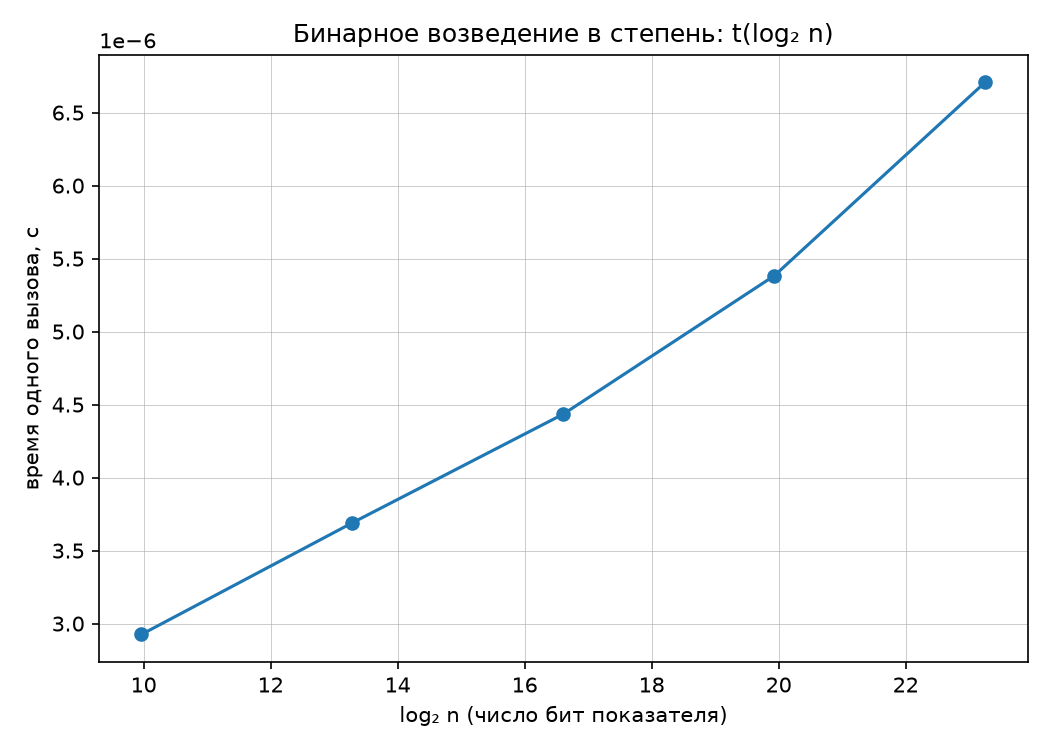
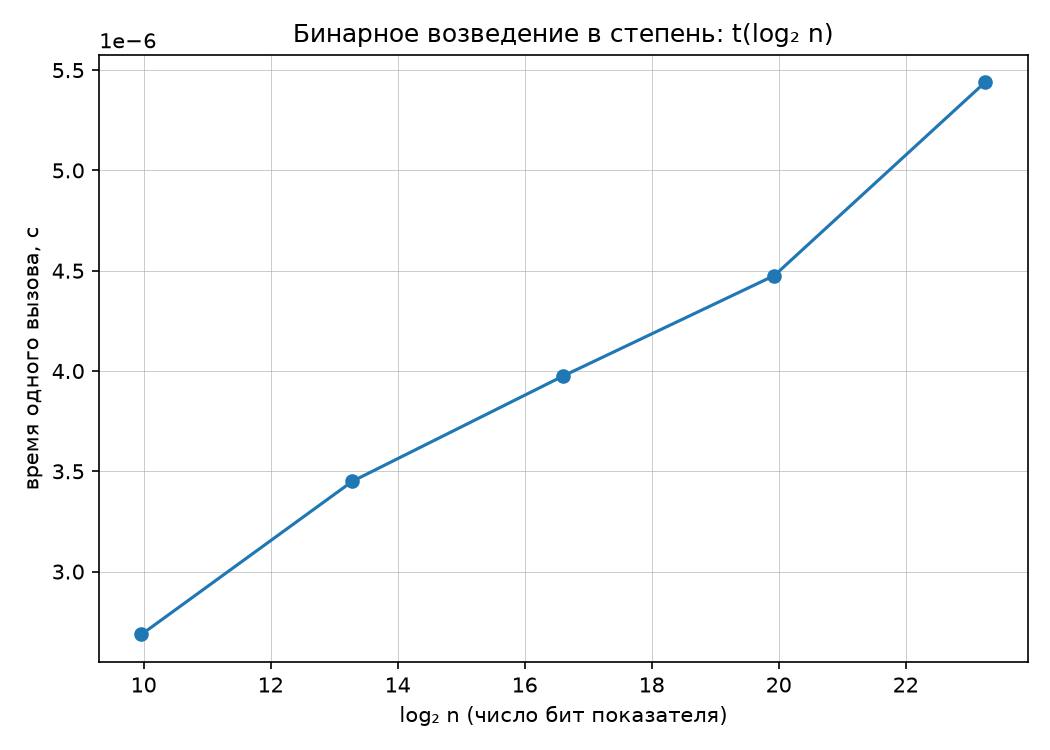
jst fix some incorrect lines

diff --git a/ЛР1/lab01-time-complexity-analysis.py b/ЛР1/lab01-time-complexity-analysis.py
@@ -181,6 +181,27 @@ def self_check() -> None:
     assert binary_pow(2, 10) == 1024
     assert binary_pow(2, 10, mod=1000) == 24
 
+ # Собственные проверки инвариантов
+    # Сумма не зависит от порядка элементов
+    assert array_sum([1, 2, 3, 4]) == array_sum([4, 3, 2, 1])
+
+    # Максимум массива не меньше любого его элемента
+    test_array = [10, 3, 7, 2]
+    maximum = array_max(test_array)
+    assert all(maximum >= value for value in test_array)
+
+    # В массиве из попарно различных элементов нет равных пар
+    assert count_equal_pairs([1, 2, 3, 4]) == 0
+
+    # Для четырёх одинаковых элементов число пар равно 4 * 3 / 2 = 6
+    assert count_equal_pairs([5, 5, 5, 5]) == 6
+
+    # Проверка обычного возведения в степень
+    assert binary_pow(3, 5) == 243
+
+    # Проверка свойства: x^(a+b) = x^a * x^b
+    assert binary_pow(2, 3 + 4) == binary_pow(2, 3) * binary_pow(2, 4)
+
     # Сверка с эталонными реализациями на случайных данных
     rng = random.Random(0)
     for _ in range(200):
@@ -191,8 +212,7 @@ def self_check() -> None:
         x, n = rng.randint(2, 50), rng.randint(0, 64)
         assert binary_pow(x, n, mod=POW_MOD) == pow(x, n, POW_MOD)
 
-    # TODO: добавить собственные проверки инвариантов и описать их в отчёте
-    # (например: count_equal_pairs на массиве из попарно различных элементов = 0).
+   
     print("self_check: OK")
 
 
@@ -337,8 +357,31 @@ def main() -> None:
     print("\nНаклон в осях log-log (оценка показателя степени):")
     for name in ("array_sum", "array_max", "count_equal_pairs"):
         print(f"  {name:20s} {log_log_slope(results[name]):.3f}")
-    # TODO: сопоставить наклоны с аналитическими оценками из отчёта
-    # и объяснить расхождения (константы, кэш, накладные расходы интерпретатора).
+        # Сопоставление экспериментальных наклонов
+    # с аналитическими оценками сложности.
+    theoretical_slopes = {
+        "array_sum": 1.0,
+        "array_max": 1.0,
+        "count_equal_pairs": 2.0,
+    }
+
+    print("\nСопоставление экспериментальных наклонов с теорией:")
+    for name in ("array_sum", "array_max", "count_equal_pairs"):
+        experimental = log_log_slope(results[name])
+        theoretical = theoretical_slopes[name]
+
+        print(
+            f"  {name:20s}: "
+            f"эксперимент = {experimental:.3f}, "
+            f"теория = {theoretical:.1f}"
+        )
+
+    print(
+        "\nРасхождения между экспериментом и теорией объясняются "
+        "постоянными накладными расходами, особенностями интерпретатора "
+        "Python, работой кэша процессора и влиянием фоновых процессов "
+        "операционной системы."
+    )
 
     plot_results(results, args.out)
 

diff --git a/ЛР1/lab01-complexity-starter-backup.py b/ЛР1/lab01-complexity-starter-backup.py
@@ -159,6 +159,7 @@ def self_check() -> None:
     assert binary_pow(2, 10) == 1024
     assert binary_pow(2, 10, mod=1000) == 24
 
+
     # Сверка с эталонными реализациями на случайных данных
     rng = random.Random(0)
     for _ in range(200):
@@ -171,6 +172,7 @@ def self_check() -> None:
 
     # TODO: добавить собственные проверки инвариантов и описать их в отчёте
     # (например: count_equal_pairs на массиве из попарно различных элементов = 0).
+    
     print("self_check: OK")
 
 
